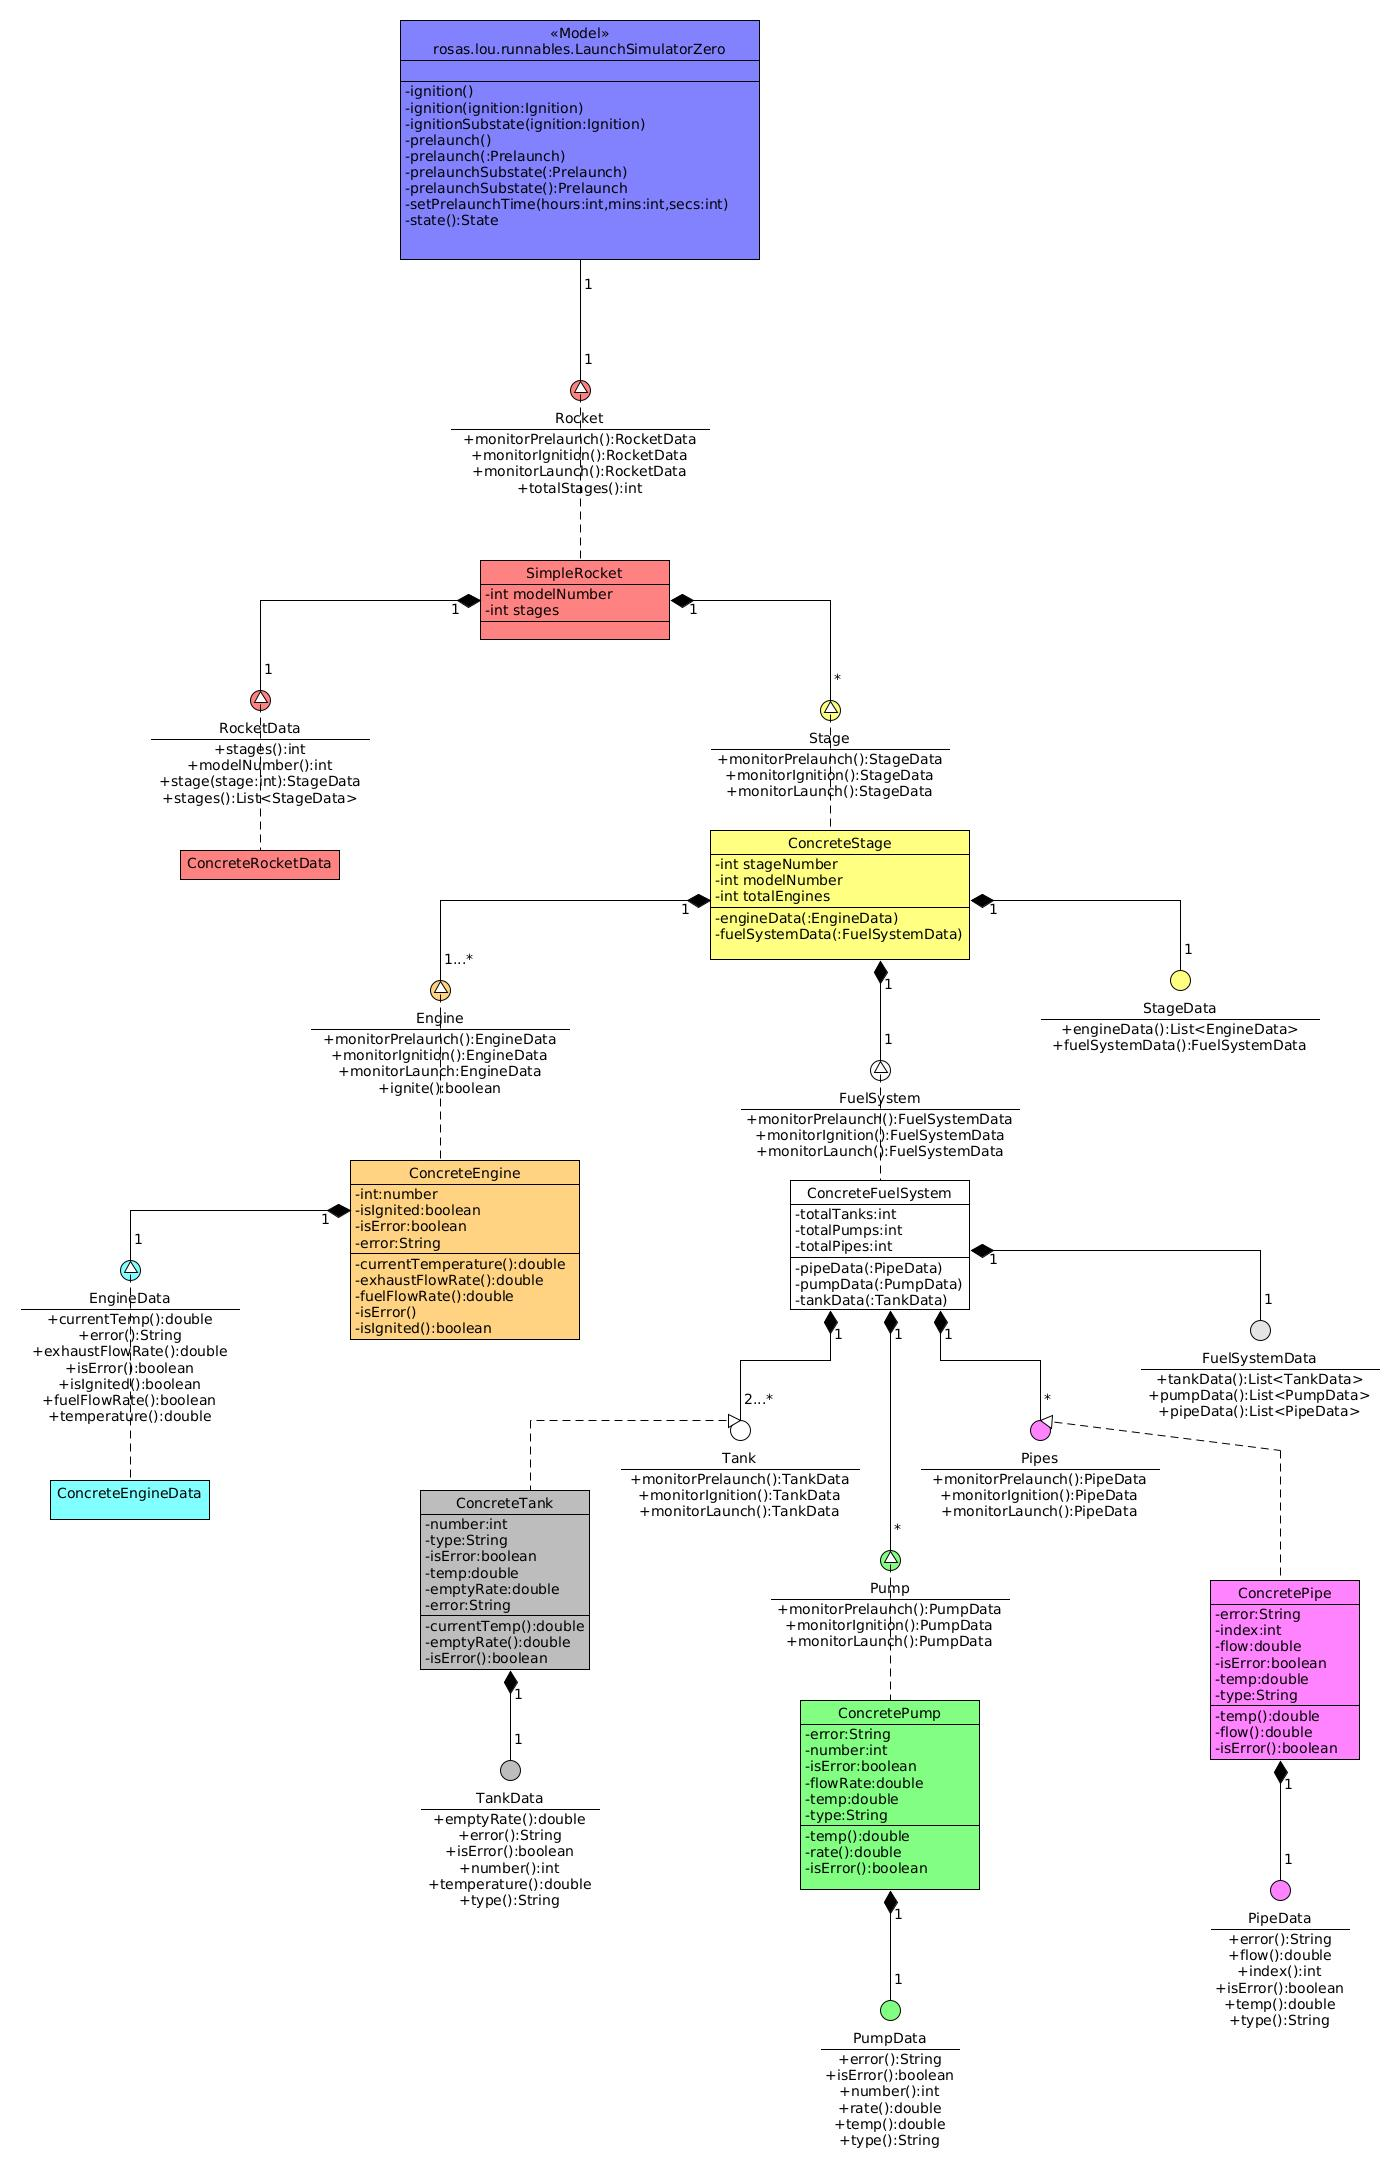
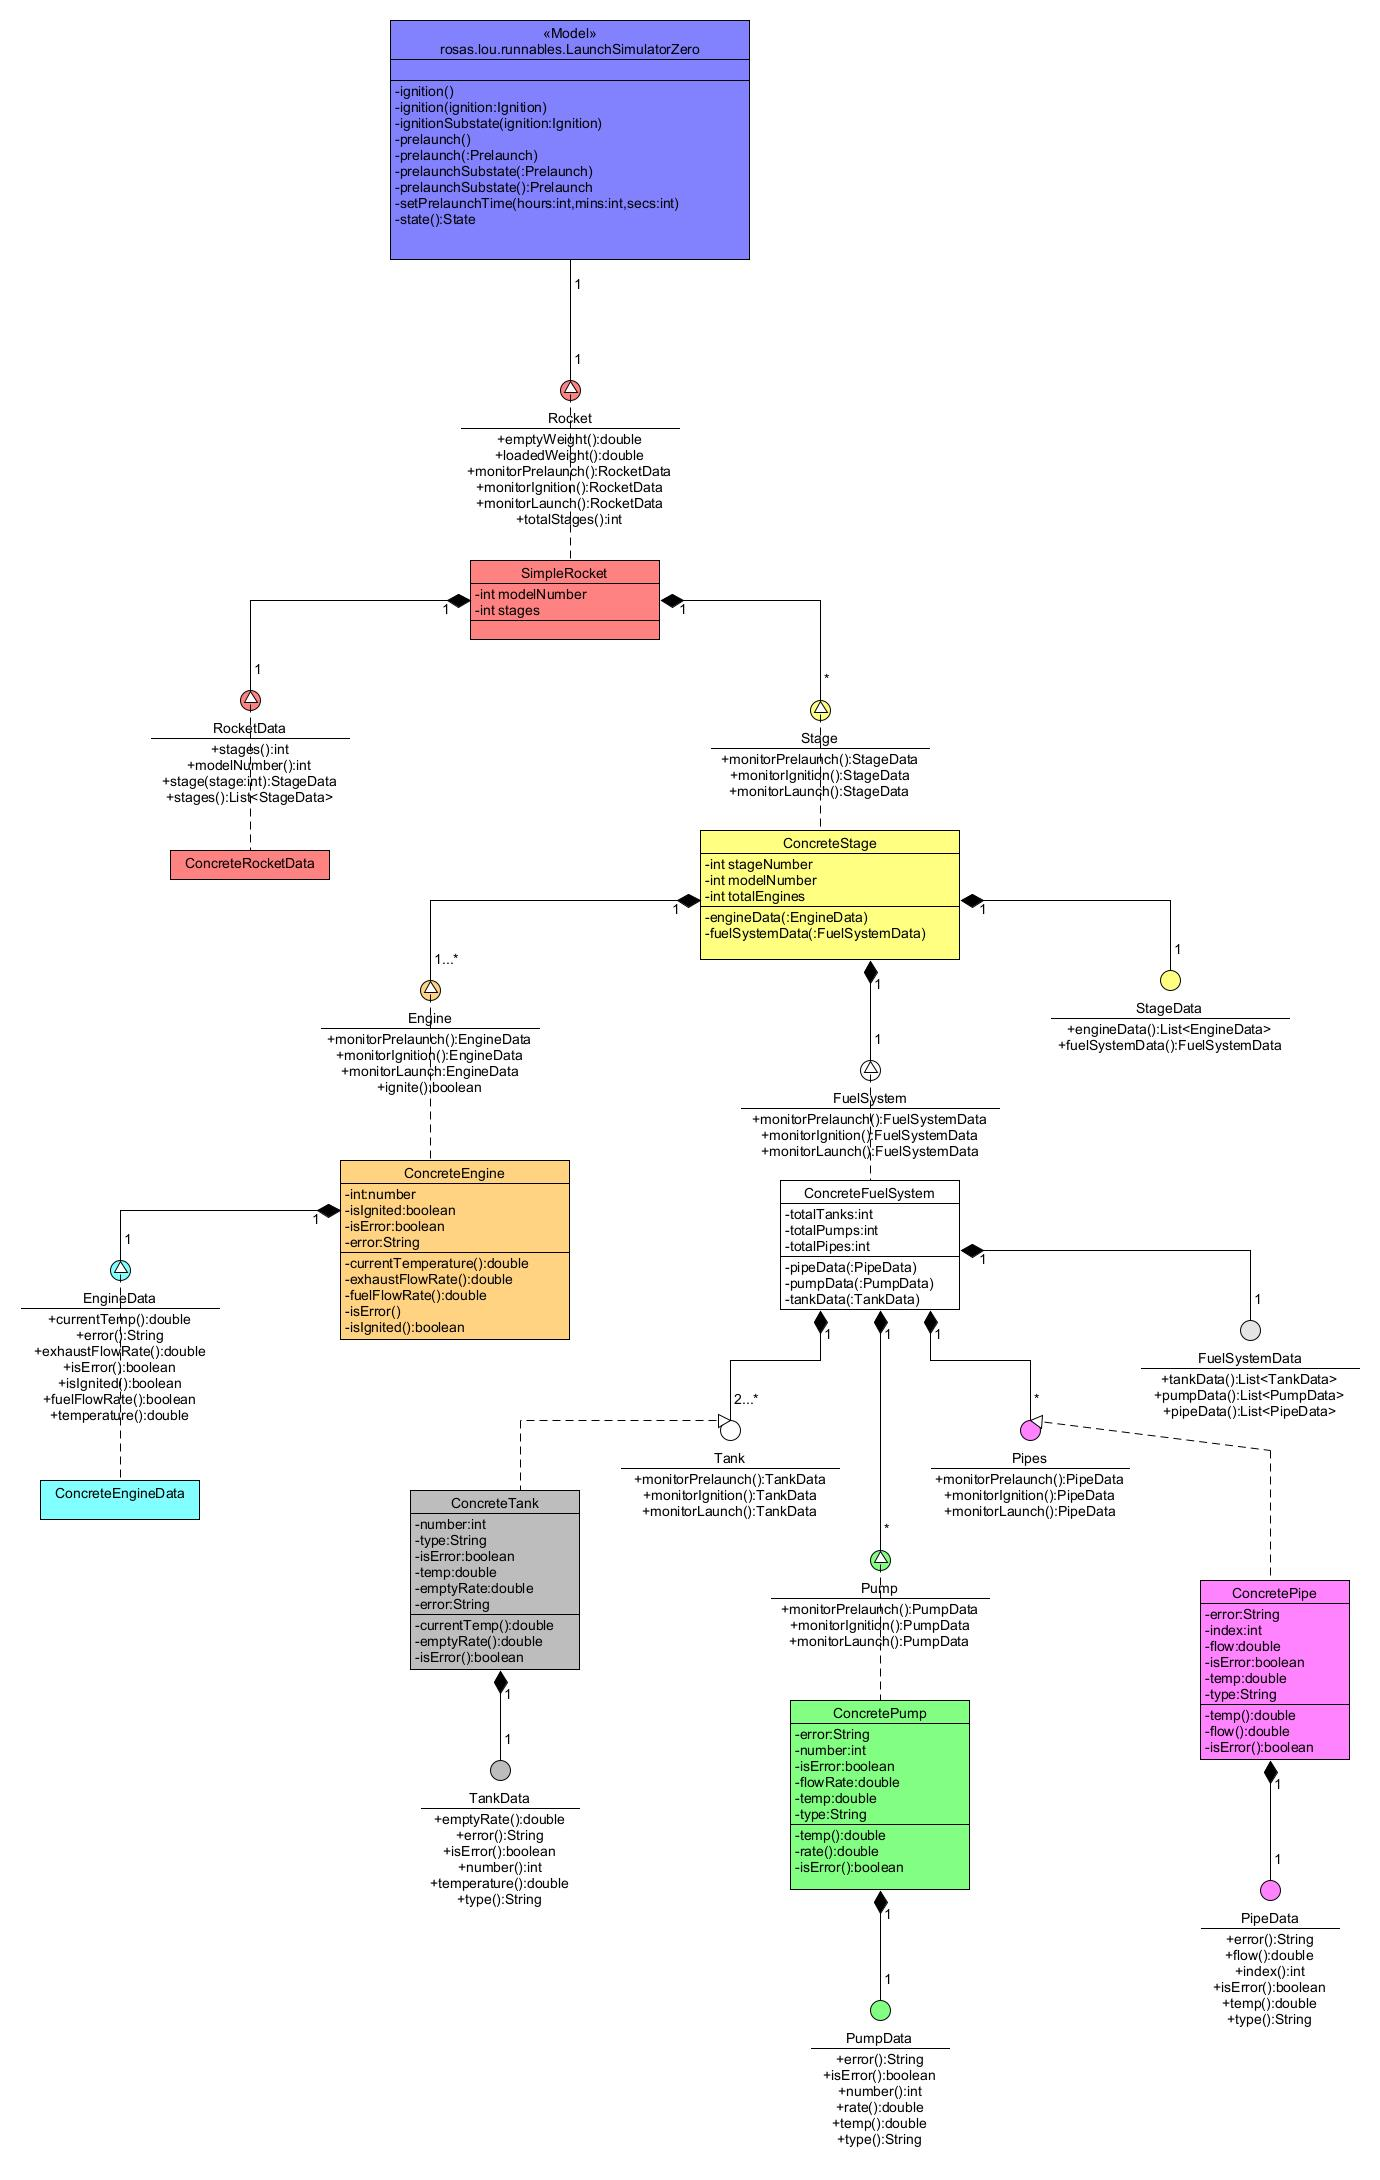
09-08-24-03

diff --git a/SimpleMechanismSupport.java b/SimpleMechanismSupport.java
@@ -22,14 +22,16 @@ import java.util.*;
 import rosas.lou.runnables.*;
 
 public class SimpleMechanismSupport implements MechanismSupport{
-   private int _id = -1;
+   private int    _id            = -1;
+   private double _supportWeight = 0.;
 
[1 lines of base64/hex data omitted]
    //
    //
    //
-   public SimpleMechanismSupport(int id){
-      this._id = id;
+   public SimpleMechanismSupport(int id, double weight){
+      this._id            = id;
+      this._supportWeight = weight;
    }
 
    /////////////////////////Public Methods////////////////////////////
@@ -41,6 +43,28 @@ public class SimpleMechanismSupport implements MechanismSupport{
       return s;
    }
    ////////////////////////Private Methods////////////////////////////
+   //This is where you "measure" the force
+   //
+   //
+   private double force(){
+      //For the time being, just return the _supportWeight
+      //this will need to change to add "Reality" to the Simulation
+      return this._supportWeight;
+   }
+
+   //"Measure" the force vector
+   //
+   //
+   private ForceVector direction(){
+      //Again, very simple!  Just construct a SimpleForceVector and 
+      //put the vector at -z and x=y=0 (all force is straight down)
+      //THIS WILL CHANGE!!!
+      double force = (-1)*this._supportWeight;
+      //for the time being, but the force straight down! (Change:TBD)
+      SimpleForceVector s = new SimpleForceVector(0,0,force);
+      return s;
+   }
+
    //
    //
    //
@@ -48,13 +72,6 @@ public class SimpleMechanismSupport implements MechanismSupport{
       return true;
    }
 
-   //
-   //
-   //
-   private double totalWeight(){
-      return 0.0;
-   }
-   
    /////////////////MechanismSupport Implementation///////////////////
    //
    //
@@ -67,6 +84,9 @@ public class SimpleMechanismSupport implements MechanismSupport{
    //
    //
    public LaunchingMechanismData monitorPrelaunch(){
+      double force  = this.force();
+      ForceVector v = this.direction();
+      //determine error and get error string if error
       return null;
    }
 

diff --git a/CurrentRocket.java b/CurrentRocket.java
@@ -26,14 +26,14 @@ public class CurrentRocket implements Rocket{
 
    private static final int NUMBEROFSTAGES = 1;
 
-   private int currentStage;
-   private boolean start;
-   private boolean abort;
+   private int     currentStage;
+   private double  _loadedWeight;  //Measure in Newtons!!!
+   private double  _emptyWeight;   //Measure in Netwons!!!
 
    {
-      currentStage = 1;
-      start        = false;
-      abort        = false;
+      currentStage   = 1;
+      //_emptyWeight   = 1e6;
+      //_loadedWeight  = 3e6;
    }
[1 lines of base64/hex data omitted]
    //
@@ -45,41 +45,49 @@ public class CurrentRocket implements Rocket{
    //
    //
    //
-   public void abort(){
-      this.abort = true;
+   public double emptyWeight(){
+      return this._emptyWeight;
    }
 
    //
    //
    //
-   public int currentStage(){
-      return this.currentStage;
+   public double loadedWeight(){
+      return this._loadedWeight;
+   }
+
+   //
+   //
+   //
+   public RocketData monitorPrelaunch(){
+      return null;
+   }
+
+   //
+   //
+   //
+   public RocketData monitorIgnition(){
+      return null;
+   }
+
+   //
+   //
+   //
+   public RocketData monitorLaunch(){
+      return null;
    }
 
    //
    //
    //
    public int stages(){
-      return NUMBEROFSTAGES;
+      return this.NUMBEROFSTAGES;
    }
 
-   /////////////////////Runnable Interface////////////////////////////
+   ///////////////////Runnable Interface Implementation//////////////
    //
    //
    //
-   public void run(){
-      try{
-         while(true){
-            if(this.abort){
-               System.out.println("Rocket Aborting");
-               throw new InterruptedException();
-            }
-            Thread.sleep(250);
-            System.out.println("Rocket Running");
-         }
-      }
-      catch(InterruptedException ie){}
-   }
+   public void run(){}
 }
-
 //////////////////////////////////////////////////////////////////////

diff --git a/SimpleLaunchingMechanism.java b/SimpleLaunchingMechanism.java
@@ -25,6 +25,7 @@ public class SimpleLaunchingMechanism implements LaunchingMechanism{
    //This should change based on file input
    private int                    _numberOfSupports;
    private List<MechanismSupport> _supports;
+   private Rocket                 _rocket; //The Rocket Supported
 
    {
       _numberOfSupports = -1;//again, should change based in input
@@ -35,15 +36,16 @@ public class SimpleLaunchingMechanism implements LaunchingMechanism{
    //
    //
    //
-   public SimpleLaunchingMechanism(){
-      this(4);
+   public SimpleLaunchingMechanism(Rocket rocket){
+      this(4, rocket);
    }
 
    //
    //
    //
-   public SimpleLaunchingMechanism(int supports){
+   public SimpleLaunchingMechanism(int supports, Rocket rocket){
       this._numberOfSupports = supports;
+      this._rocket           = rocket;
       this.setUpSupports();
    }
 
@@ -59,9 +61,11 @@ public class SimpleLaunchingMechanism implements LaunchingMechanism{
 
    /**/
    private void setUpSupports(){
+      int supports = this._numberOfSupports;
       this._supports = new LinkedList<MechanismSupport>();
-      for(int i = 0; i < this._numberOfSupports; ++i){
-         this._supports.add(new SimpleMechanismSupport(i));
+      for(int i = 0; i < supports; ++i){
+         double weight = this._rocket.loadedWeight()/supports;
+         this._supports.add(new SimpleMechanismSupport(i,weight));
       }
    }
 
@@ -76,6 +80,7 @@ public class SimpleLaunchingMechanism implements LaunchingMechanism{
          //Get the Prelaunch Data from all the supports...
          for(int i = 0; i < this._supports.size(); ++i){
             MechanismSupport support = this._supports.get(i);
+            //Do a test print for now...
             data.add(support.monitorPrelaunch());
          }
          

diff --git a/LaunchSimulatorZero.java b/LaunchSimulatorZero.java
@@ -273,6 +273,13 @@ implements Runnable,Publisher,LaunchSimulator{
    //
    //
    //
+   public void rocket(Rocket rocket){
+      this.rocket = rocket;
+   }
+
+   //
+   //
+   //
    public void startCountdown(){
       if(this.state() == PREL && this.prelaunchSubstate() == SET){
          this.start = true;
@@ -299,15 +306,14 @@ implements Runnable,Publisher,LaunchSimulator{
             if(this.start){
                //Thread.sleep(50);
                if(this.state() == PREL){
-                  //md = this.launchingMechanism.monitorPrelaunch();
+                  md = this.launchingMechanism.monitorPrelaunch();
                   if(++printCounter == 100){
                      //So far, just test prints
                      System.out.println("\n"+this.stateSubstate);
-                     /*System.out.println(md.size());
+                     System.out.println(md.size());
                      for(int i = 0; i < md.size(); ++i){
                         System.out.println(md.get(i));
                      }
-                     */
                      printCounter = 0;
                   }
                }

diff --git a/SimpleForceVector.java b/SimpleForceVector.java
@@ -21,6 +21,7 @@ import java.lang.*;
 import java.util.*;
 import rosas.lou.runnables.*;
 
+//Direction is determined based on sign of the force component
 public class SimpleForceVector implements ForceVector{
    private double _x;
    private double _y;
@@ -52,27 +53,21 @@ public class SimpleForceVector implements ForceVector{
 
    //////////////////////ForceVector Implementation///////////////////
    /**/
-   public double x(){
-      return this._x;
+   public double up(){
+      return 0.;
    }
 
    /**/
-   public double y(){
-      return this._y;
+   public double down(){
+      return 0.;
    }
 
-   public double z(){
-      return this._z;
+   public double right(){
+      return 0.;
    }
 
-   public double maginitude(){
-      return this._magnitude();
-   }
+   public double left(){ return 0.; }
 
-   public String toString(){
-      String s = new String;
-
-      return s;
-   }
+   public double magnitude(){ return 0.; }
 }
 //////////////////////////////////////////////////////////////////////

diff --git a/LaunchSimulator.java b/LaunchSimulator.java
@@ -29,6 +29,7 @@ public interface LaunchSimulator{
    public void launchingMechanism(LaunchingMechanism mech);
    public void preLaunchTime(int hours, int mins, int secs);
    public void resumeCountdown();
+   public void rocket(Rocket rocket);
    public void startCountdown();
 }
 //////////////////////////////////////////////////////////////////////

diff --git a/ForceVector.java b/ForceVector.java
@@ -27,6 +27,7 @@ public interface ForceVector{
    public double left();
    public double right();
    public double up();
+   public double magnitude();
 }
 //////////////////////////////////////////////////////////////////////
 
